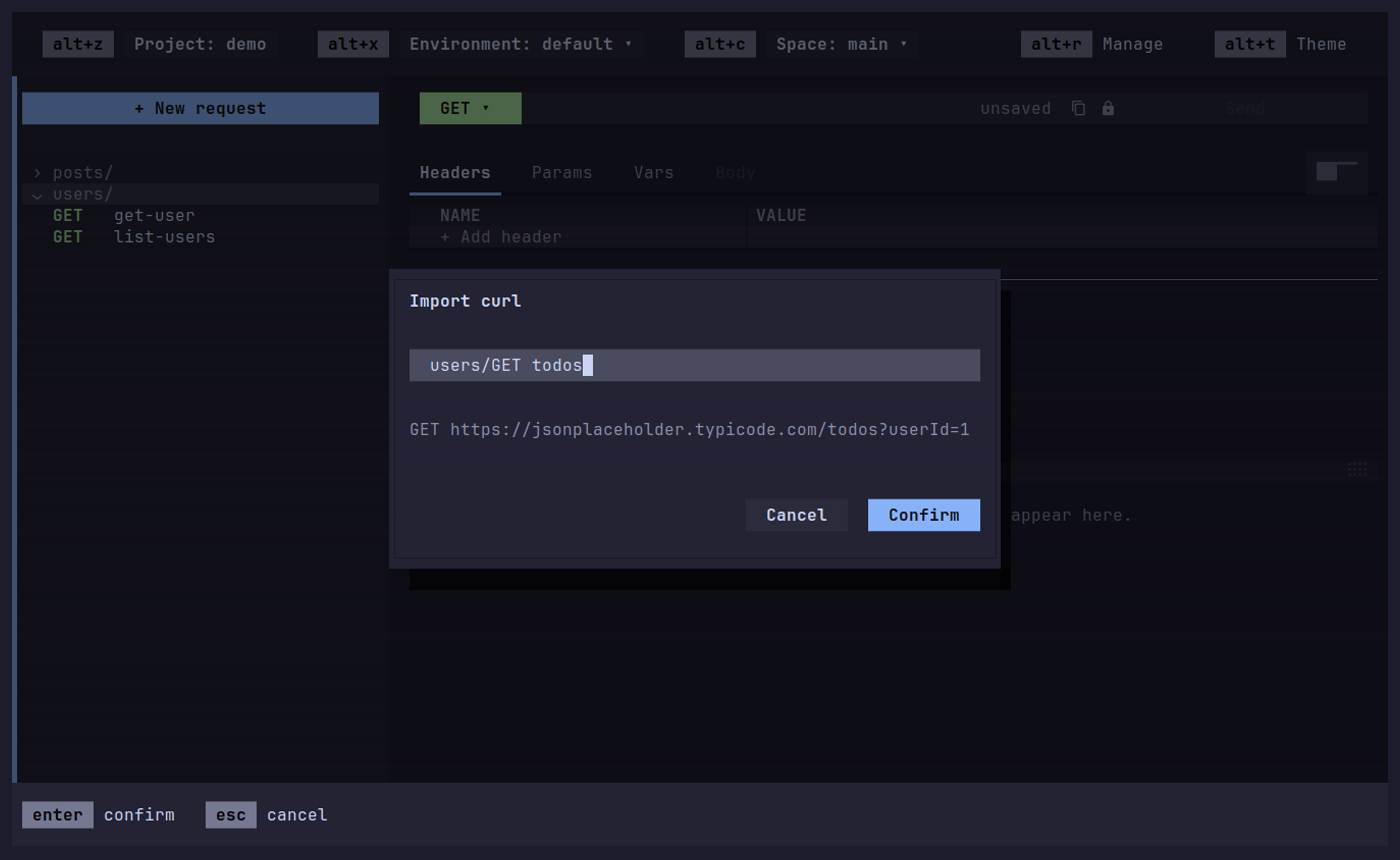
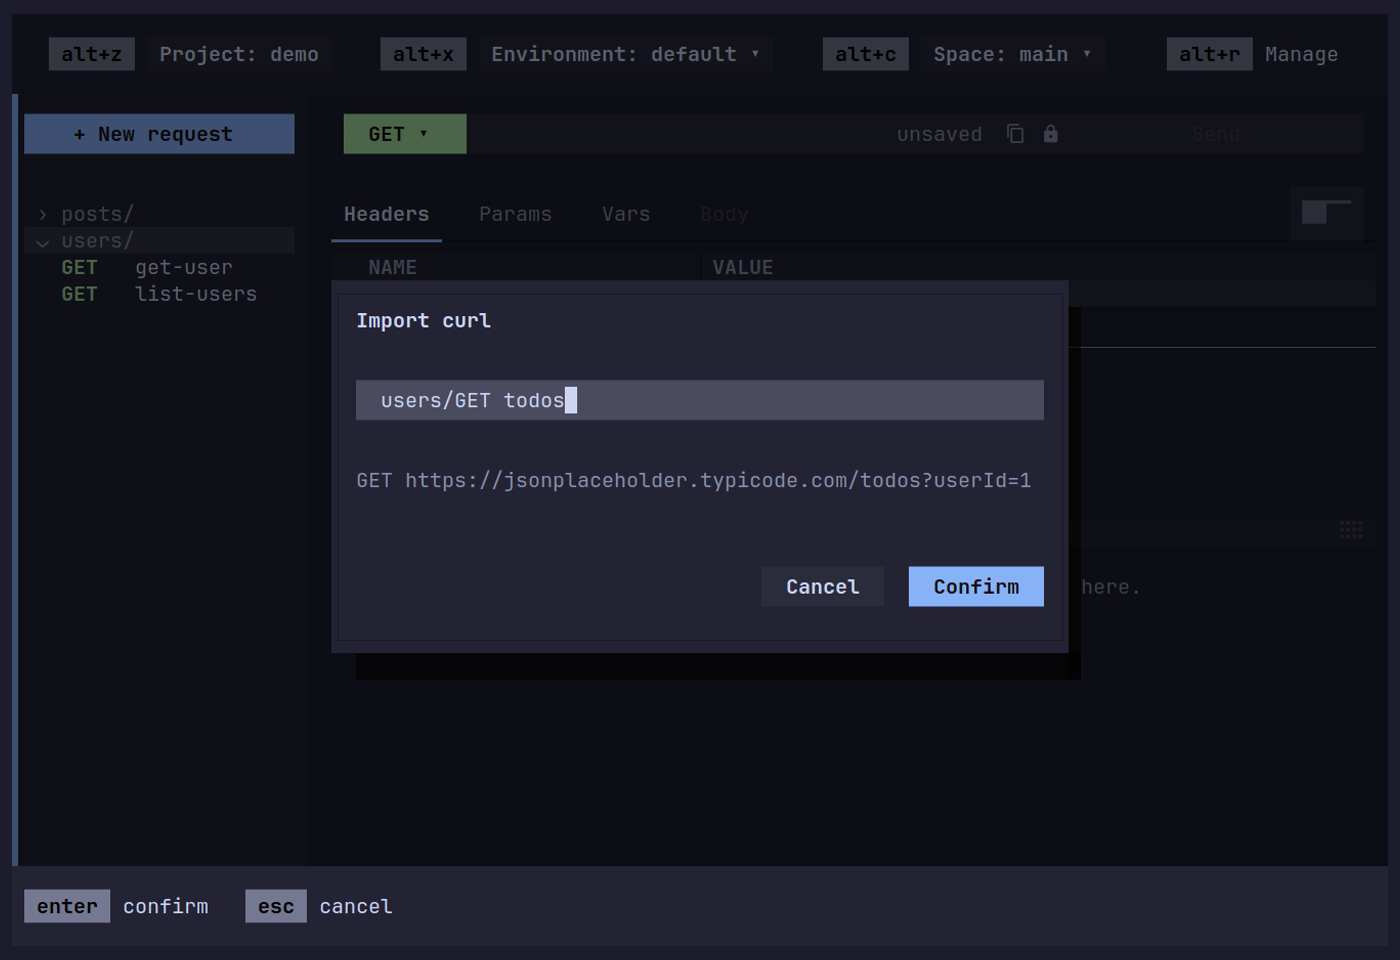
README images recorded at about 105x34
Font size 20 and height 960 instead of 22 and 860, which came out at
96x28 and cut off the Manage screen's value and the hero's filtered
result; sidebar 24 columns so the hero's modified list-users fits.

Refs: #158

diff --git a/docs/tapes/README.md b/docs/tapes/README.md
@@ -72,8 +72,9 @@ the sidebar takes those as commands.
 Each tape starts with `include/common.tape`: the recording settings from
 `include/settings.tape`, and the hidden launch through `setup.sh`. `vim.tape`
 sources the settings alone and launches with the Vim profile itself. The
-font size sets the terminal to about 100 columns, so the text stays readable
-when GitHub scales the images down to its README column. `include/open-users.tape` holds the sidebar
+font size and height set the terminal to about 105 columns by 34 rows, so
+the text stays readable when GitHub scales the images down to its README
+column. `include/open-users.tape` holds the sidebar
 steps into the demo's `users/` folder, the one place the tapes depend on the
 demo project's layout. It sits in its own folder so the
 `docs/tapes/*.tape` loop doesn't record it on its own.
